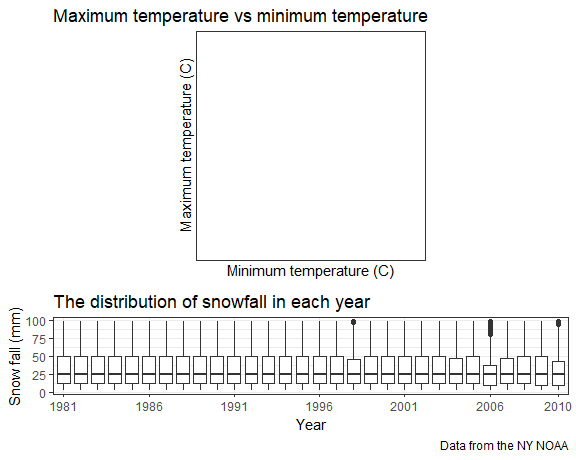
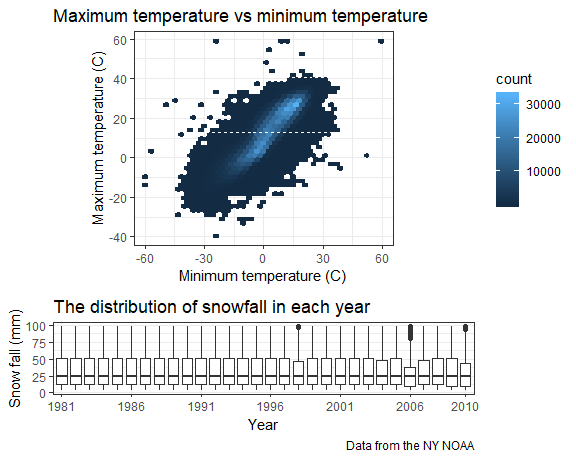
revision of plots

diff --git a/p8105_hw3_hq2163_hanbo.md b/p8105_hw3_hq2163_hanbo.md
@@ -261,8 +261,4 @@ tmax_tmin + snow_fall + plot_layout(ncol = 1, heights = c(3, 1))
 
     ## Warning: Removed 1136276 rows containing non-finite values (stat_binhex).
 
-    ## Warning: Computation failed in `stat_binhex()`:
-    ## Package `hexbin` required for `stat_binhex`.
-    ## Please install and try again.
-
 <img src="p8105_hw3_hq2163_hanbo_files/figure-markdown_github/unnamed-chunk-14-1.png" width="90%" />
